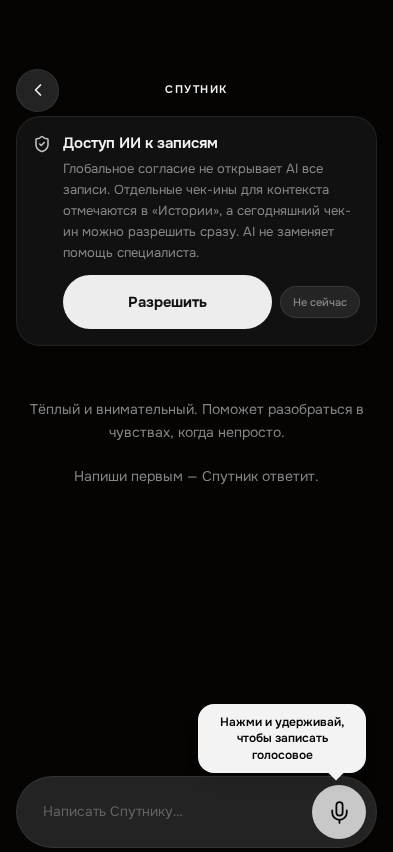
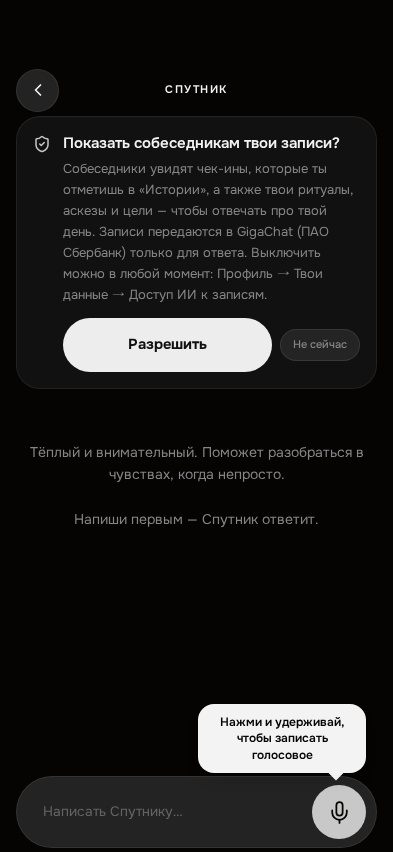
Вынести тексты согласия ИИ в константы и обновить UI профиля

Changed region(s): [[0.0916, 0.1526, 0.916, 0.6103]]

diff --git a/src/screens/mentalix/AiContextConsentCard.jsx b/src/screens/mentalix/AiContextConsentCard.jsx
@@ -7,8 +7,10 @@ import PillButton from '../../components/ui/PillButton'
 import { api } from '../../lib/api'
 import { useSynced } from '../../lib/store'
 import {
+  AI_CONSENT_ALLOW_LABEL,
   AI_CONSENT_CARD_BODY,
-  AI_CONSENT_TITLE,
+  AI_CONSENT_CARD_TITLE,
+  AI_CONSENT_SNOOZE_LABEL,
   AI_CONTEXT_PERSONAS,
   aiConsentSnoozeKey,
   canManageAiContext,
@@ -98,14 +100,16 @@ export default function AiContextConsentCard({ user, persona, hidden = false }) 
   return (
     <section
       data-testid="ai-consent-card"
-      aria-label={AI_CONSENT_TITLE}
+      aria-label={AI_CONSENT_CARD_TITLE}
       className="mb-3"
     >
       <Card className="p-4">
         <div className="flex items-start gap-3">
           <ShieldCheck size={18} className="mt-0.5 shrink-0 text-gold" aria-hidden="true" />
           <div className="min-w-0 flex-1">
-            <p className="text-[15px] font-semibold leading-snug text-cream">{AI_CONSENT_TITLE}</p>
+            <p className="text-[15px] font-semibold leading-snug text-cream">
+              {AI_CONSENT_CARD_TITLE}
+            </p>
             <p className="mt-1 text-[13px] leading-relaxed text-muted">{AI_CONSENT_CARD_BODY}</p>
             {error && (
               <p role="status" className="mt-2 text-[12px] leading-relaxed text-muted">
@@ -120,7 +124,7 @@ export default function AiContextConsentCard({ user, persona, hidden = false }) 
                 disabled={saving}
                 className="flex-1"
               >
-                Разрешить
+                {AI_CONSENT_ALLOW_LABEL}
               </PillButton>
               <button
                 type="button"
@@ -129,7 +133,7 @@ export default function AiContextConsentCard({ user, persona, hidden = false }) 
                 disabled={saving}
                 onClick={snooze}
               >
-                Не сейчас
+                {AI_CONSENT_SNOOZE_LABEL}
               </button>
             </div>
           </div>

diff --git a/src/lib/aiContextConsent.js b/src/lib/aiContextConsent.js
@@ -55,8 +55,11 @@ export function isAiConsentSnoozed(value, now = Date.now()) {
  * Тексты карточки и переключателя — один источник для обеих поверхностей,
  * чтобы Диалог и Профиль не разошлись в формулировках.
  */
-export const AI_CONSENT_TITLE = 'Доступ ИИ к записям'
+export const AI_CONSENT_CARD_TITLE = 'Показать собеседникам твои записи?'
 export const AI_CONSENT_CARD_BODY =
-  'Глобальное согласие не открывает AI все записи. Отдельные чек-ины для контекста отмечаются в «Истории», а сегодняшний чек-ин можно разрешить сразу. AI не заменяет помощь специалиста.'
+  'Собеседники увидят чек-ины, которые ты отметишь в «Истории», а также твои ритуалы, аскезы и цели — чтобы отвечать про твой день. Записи передаются в GigaChat (ПАО Сбербанк) только для ответа. Выключить можно в любой момент: Профиль → Твои данные → Доступ ИИ к записям.'
+export const AI_CONSENT_ALLOW_LABEL = 'Разрешить'
+export const AI_CONSENT_SNOOZE_LABEL = 'Не сейчас'
+export const AI_CONSENT_SWITCH_TITLE = 'Доступ ИИ к записям'
 export const AI_CONSENT_SWITCH_SUBTITLE =
-  'Персональный контекст в «Диалоге». Отдельные записи отмечаются в «Истории».'
+  'Собеседники видят отмеченные чек-ины, ритуалы, аскезы и цели. Выключишь — отметки снимутся.'

diff --git a/src/lib/demoMode.js b/src/lib/demoMode.js
@@ -909,6 +909,7 @@ function daimonTestMode() {
  *   sendError    — две неудачные отправки подряд
  *   dailyLimit   — первая отправка отдаёт 429 daily_limit
  *   slowCreate   — медленное создание разговора (индикатор в чате)
+ *   crisis       — ответ собеседника приходит с crisis: true
  */
 const DIALOG_TEST_MODES = [
   'historyError',
@@ -917,6 +918,7 @@ const DIALOG_TEST_MODES = [
   'sendError',
   'dailyLimit',
   'slowCreate',
+  'crisis',
 ]
 
 let guidedCatalogFailuresLeft = 1
@@ -1626,6 +1628,9 @@ function respond(path, options = {}) {
       role: 'assistant',
       content: `${personaName} рядом. Давай разберём это спокойно: что в этой ситуации сейчас важнее всего заметить?`,
     }
+    // ?dialogTest=crisis: ответ собеседника просит поддержки. Метка та же,
+    // что приходит от backend и уже читается «Диалогом» (message.crisis).
+    if (dialogTestMode() === 'crisis') reply.crisis = true
     // Отдельные разговоры: сохраняем в conversation или в общий массив.
     const convId = body.conversation_id
     const conversations = [...(state.conversations || [])]

diff --git a/src/screens/settings/ProfileUi.jsx b/src/screens/settings/ProfileUi.jsx
@@ -202,6 +202,7 @@ export function ProfileRow({
   testId,
   valueHeading = false,
   disabled = false,
+  subtitleLines = 2,
 }) {
   const Component = onClick ? 'button' : 'div'
   const showChevron = Boolean(onClick) && !right
@@ -218,7 +219,16 @@ export function ProfileRow({
     >
       <span className="mx-profile-row__text">
         <span className="mx-profile-row__title">{title}</span>
-        {subtitle && <span className="mx-profile-row__subtitle">{subtitle}</span>}
+        {/* subtitleLines: по умолчанию две строки, как раньше. Длинной подписи
+            согласия на записи передаётся больше строк — текст не обрезается. */}
+        {subtitle && (
+          <span
+            className="mx-profile-row__subtitle"
+            style={subtitleLines !== 2 ? { WebkitLineClamp: subtitleLines } : undefined}
+          >
+            {subtitle}
+          </span>
+        )}
       </span>
       {value != null && <ValueTag className="mx-profile-row__value">{value}</ValueTag>}
       {right}

diff --git a/src/screens/settings/AiConsentSwitchRow.jsx b/src/screens/settings/AiConsentSwitchRow.jsx
@@ -10,7 +10,7 @@ import { useEffect, useState } from 'react'
 import { api } from '../../lib/api'
 import {
   AI_CONSENT_SWITCH_SUBTITLE,
-  AI_CONSENT_TITLE,
+  AI_CONSENT_SWITCH_TITLE,
   canManageAiContext,
   readAiConsentEnabled,
 } from '../../lib/aiContextConsent'
@@ -75,13 +75,14 @@ export default function AiConsentSwitchRow({ user }) {
   return (
     <>
       <ProfileRow
-        title={AI_CONSENT_TITLE}
+        title={AI_CONSENT_SWITCH_TITLE}
         subtitle={AI_CONSENT_SWITCH_SUBTITLE}
+        subtitleLines={4}
         testId="profile-ai-consent-row"
         right={
           <Toggle
             checked={enabled === true}
-            label={AI_CONSENT_TITLE}
+            label={AI_CONSENT_SWITCH_TITLE}
             onChange={toggle}
             disabled={saving || enabled === null}
             testId="profile-ai-consent-toggle"
